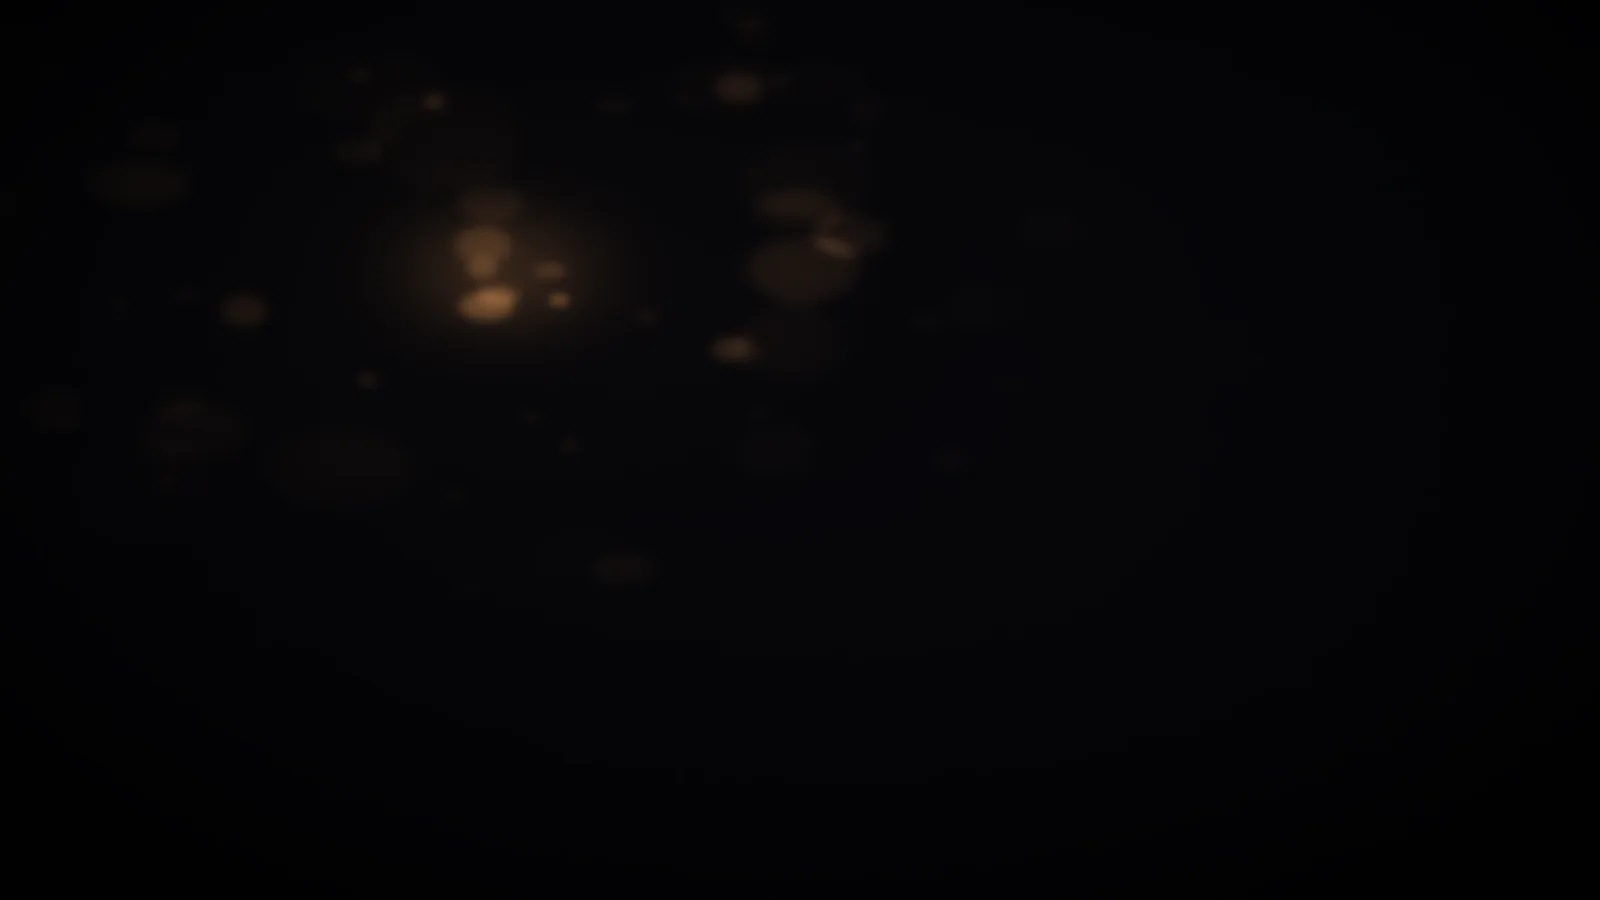
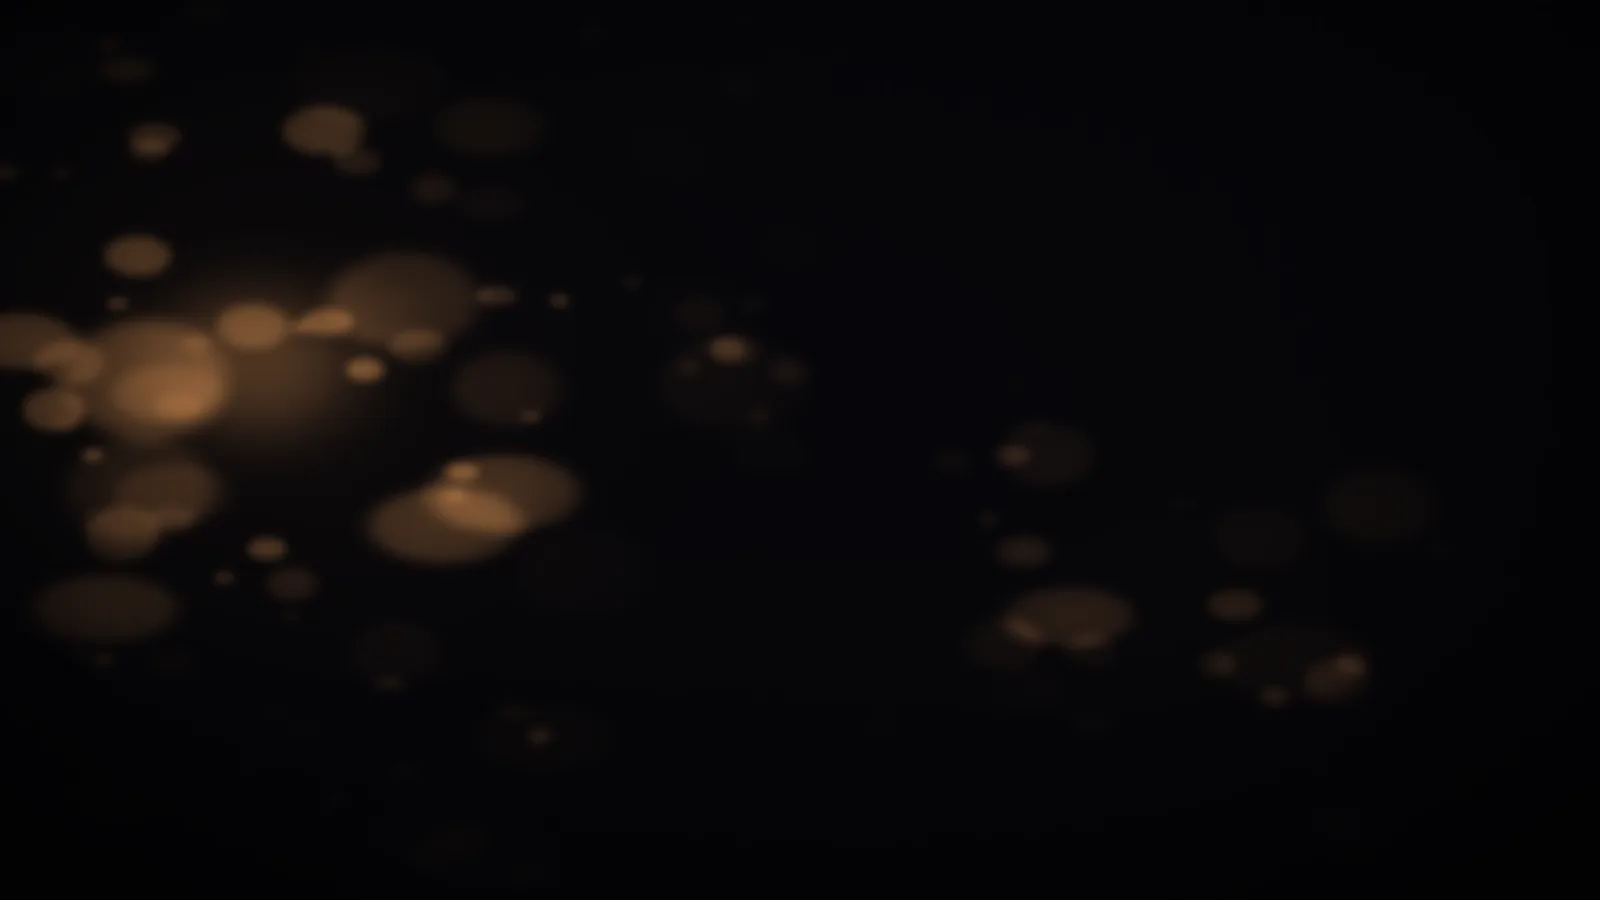
Light the Resume margins, where that plate is actually visible
Reported as still having no background, and the placement was the
reason. The rendered page is centred, full height, and carries a 70px
black shadow, so the lamp at 0.31 across was sitting directly behind it.
The only parts of this plate anyone ever sees are the strip down the
left and the gap before the output module, and neither had light in it.

The lamp moves out to 0.16 across, a second cluster fills the gap at
0.74, and the highlight count and gain go up with them. Mean 5.7 to 10.7
against a peak of 154.

Scrim drops to 0.4 for this comp alone. A large white rectangle sits in
the middle of the frame here, and beside it a plate at the 0.6 the other
comps use reads as flat black no matter how much is behind the wash.

The vignette eases off across all the plates, from 0.6 to 0.72 of the
falloff, because on this comp it was darkest exactly where the plate
needed to show.

diff --git a/src/app/studio/comps/Output.tsx b/src/app/studio/comps/Output.tsx
@@ -30,7 +30,10 @@ import { LOCATION, RESUME_HREF, socials, withBasePath } from "../../data";
 export function DocPanel() {
   return (
     <div className="st-seq relative flex h-full min-h-full flex-col px-[4%] py-[3%]">
-      <Plate src="plate-resume.webp" scrim={0.6} />
+      {/* Less scrim than the others carry. The rendered page is a large white
+          rectangle, and next to it a plate at 0.6 reads as flat black however
+          much is actually behind the wash. */}
+      <Plate src="plate-resume.webp" scrim={0.4} />
 
       <span className="st-eyebrow relative shrink-0">Render queue</span>
 
